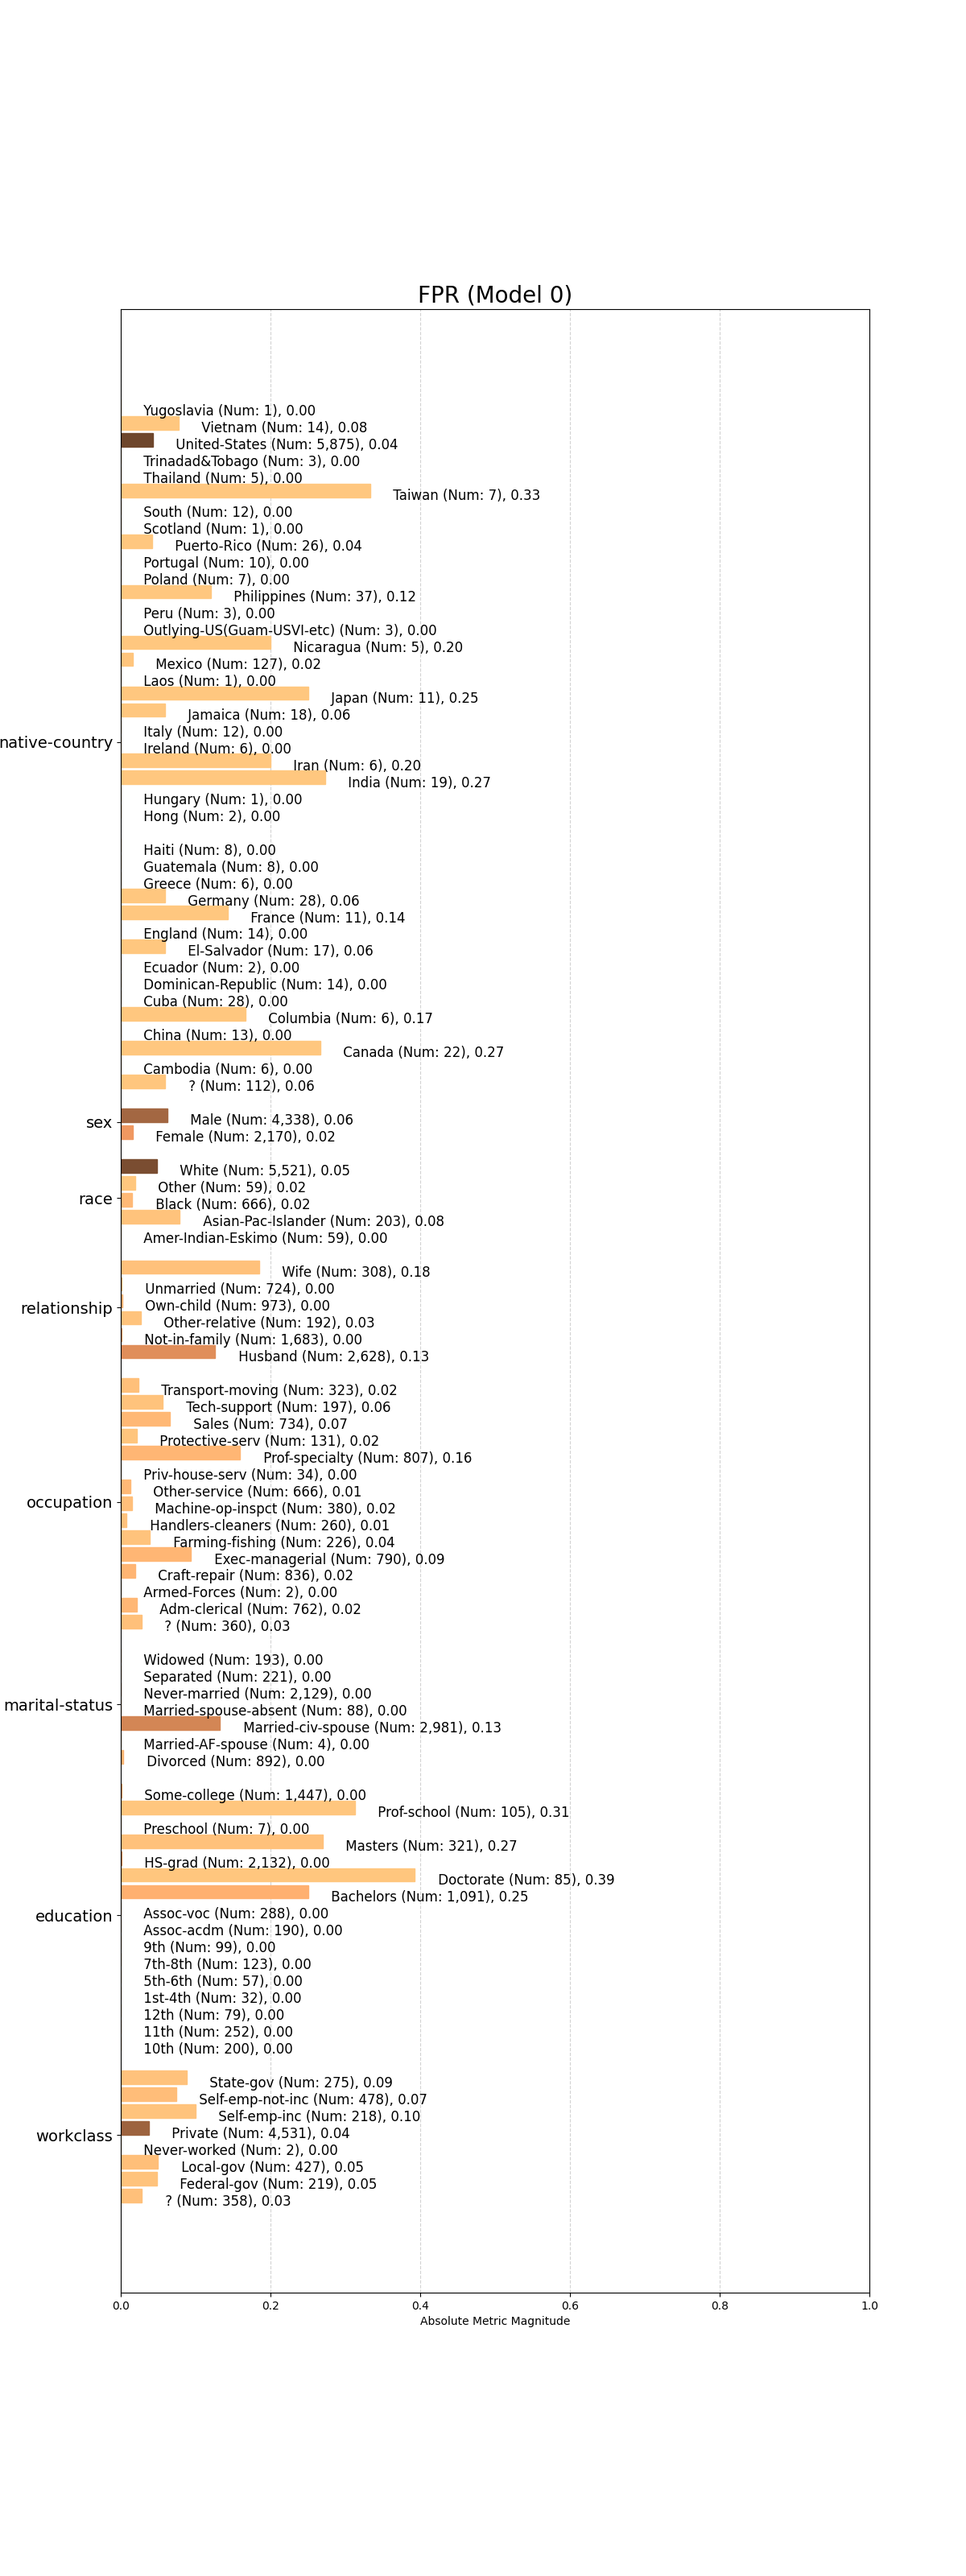
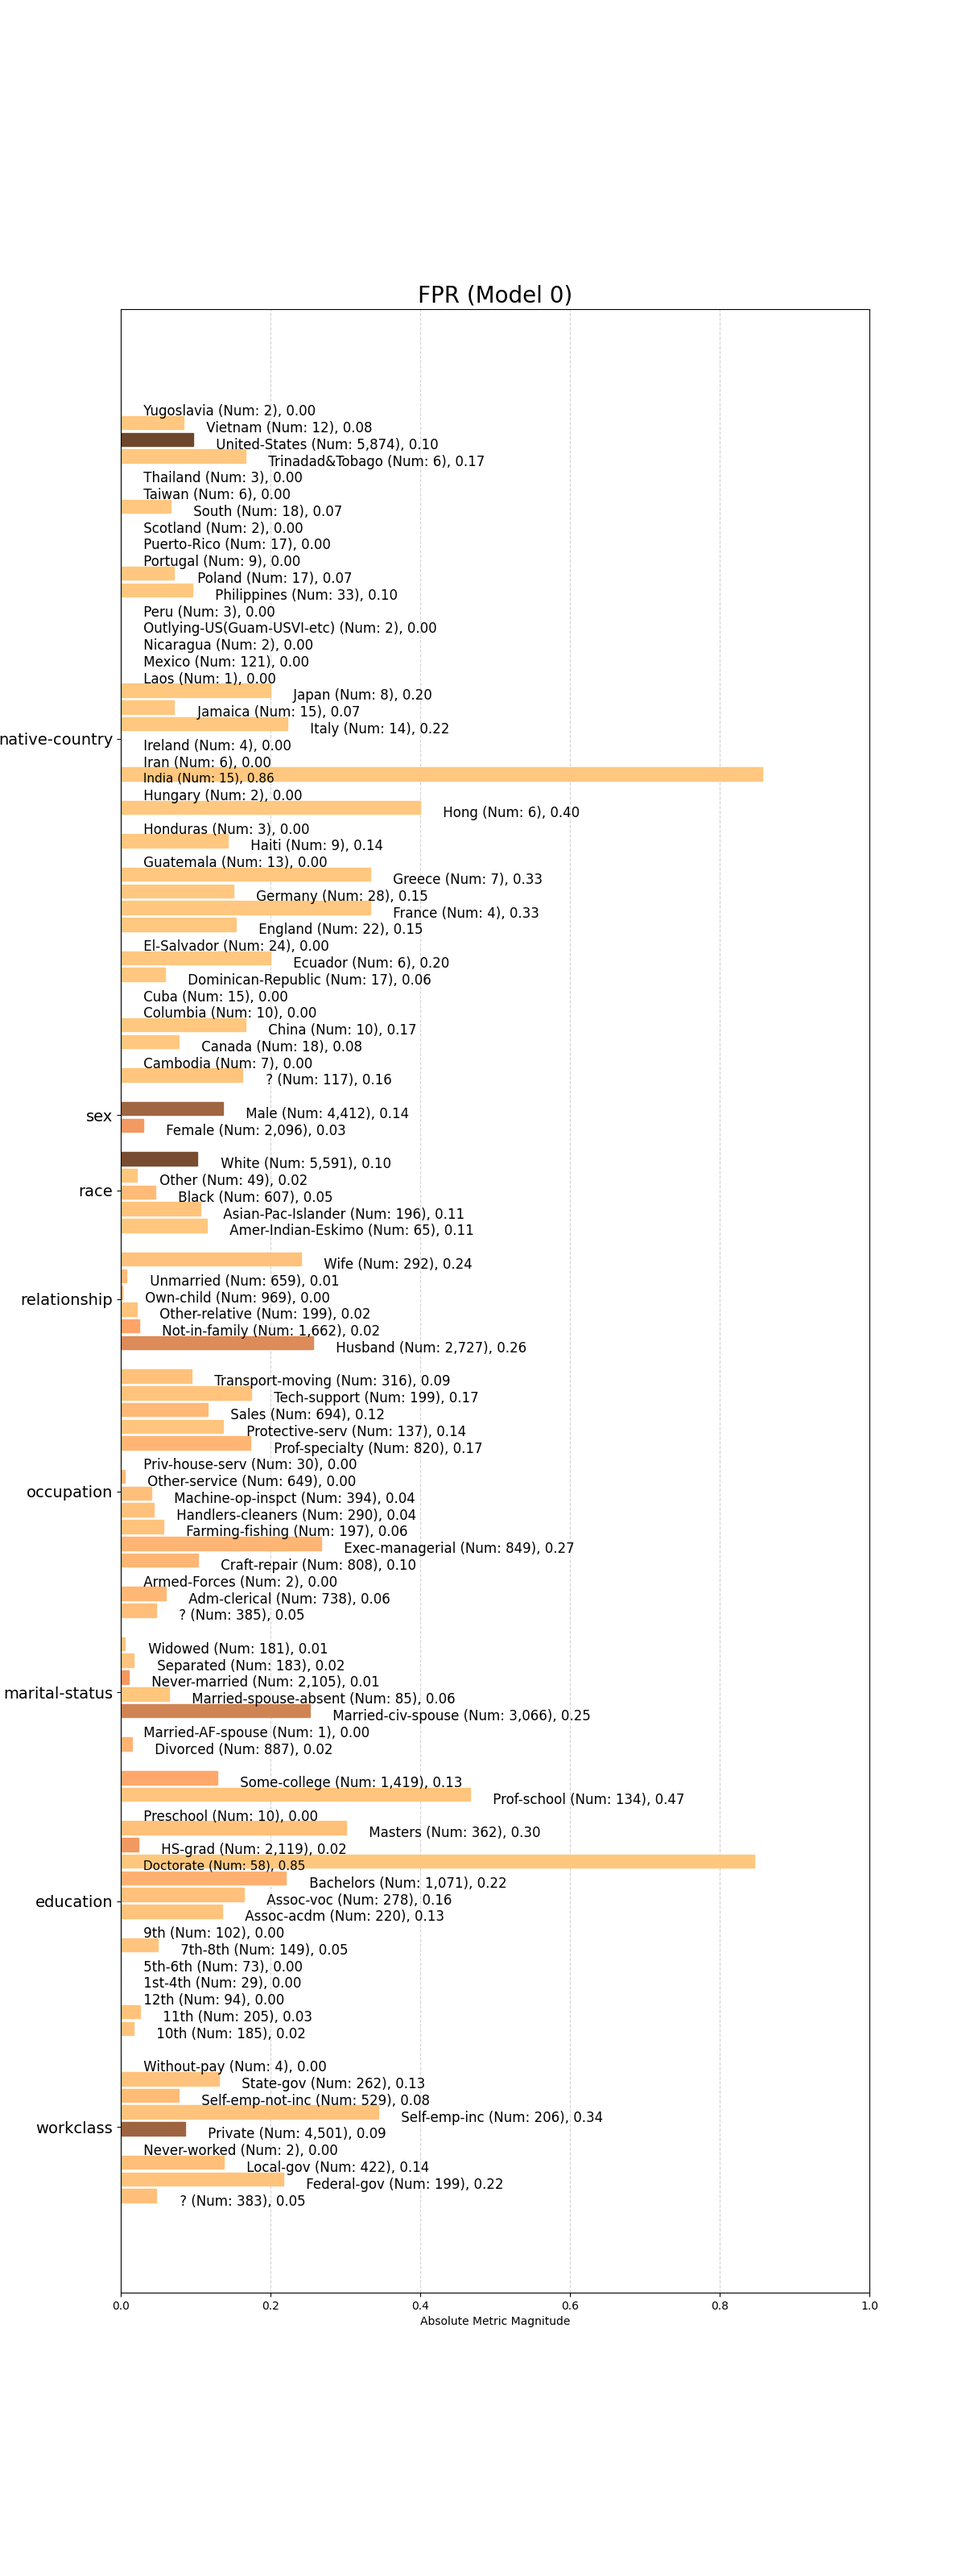
add eval on data slice and updat model

diff --git a/src/training/run.py b/src/training/run.py
@@ -1,13 +1,14 @@
 import argparse
 import logging
 import os
+import json
 import pickle
 from pathlib import Path
 
 import pandas as pd
 from ml.data import cat_features, process_data
 from ml.model import (compute_model_metrics, plot_model_disparity_on_fpr,
-                      train_model)
+                      train_model, compute_metrics_on_slice)
 from sklearn.model_selection import train_test_split
 
 logging.basicConfig(level=logging.INFO, format="%(asctime)-15s %(message)s")
@@ -34,7 +35,8 @@ def training(input_path: str, output_path: str):
     # generate k-fold
 
     # train, test split
-    train_data, test_data = train_test_split(data, test_size=0.2)
+    train_data, test_data = train_test_split(data, test_size=0.2,
+                                             random_state=42)
 
     X_train, y_train, encoder, lb = process_data(train_data, categorical_features=cat_features,  # NOQA:E501
                                                  label="salary", training=True)
@@ -49,7 +51,13 @@ def training(input_path: str, output_path: str):
                                         encoder=encoder, lb=lb)
     y_pred = model.predict(X_test)
     scores = compute_model_metrics(y_test, y_pred)
+    # evaluation on data slice
+    perf_on_slice = compute_metrics_on_slice(data=test_data,
+                                             y_pred=y_pred, y_true=y_test,
+                                             feature_name='education')
 
+    with open(os.path.join(output_path, 'data_slice_eval.json'), 'w+') as f:
+        json.dump(perf_on_slice, f)
     #
     test_data = test_data.rename(columns={'salary': 'label_value'})
     test_data['label_value'] = y_test

diff --git a/src/training/ml/model.py b/src/training/ml/model.py
@@ -24,7 +24,7 @@ def train_model(X_train, y_train):
         Trained machine learning model.
     """
 
-    clf = DecisionTreeClassifier()
+    clf = DecisionTreeClassifier(random_state=42)
     cv = KFold(5, shuffle=True, random_state=42)
     trainer = GridSearchCV(clf,
                            {"max_depth": np.linspace(5, 30, 6).astype(int)},
@@ -56,6 +56,34 @@ def compute_model_metrics(y, preds):
     return {"precision": precision,
             "recall": recall,
             "fbeta": fbeta}
+
+
+def compute_metrics_on_slice(data, y_pred, y_true, feature_name):
+    """evaluation model performance on specific features, return
+    a dict of performance dict, that key is attribute value in the
+    features.
+
+    Args:
+        data: A pandas DataFrame to be analysised by model
+        y_pred: 1d array-like, or label indicator array / sparse matrix
+        Ground truth (correct) target values.
+        y_true: 1d array-like, or label indicator array / sparse matrix
+        Ground truth (correct) target values.
+        model: A trained model
+        feature_name: the feature name of data
+    """
+    _tmp_data = data
+    _tmp_data['label'] = y_true
+    _tmp_data['pred'] = y_pred
+
+    ans = {}
+    for attr in data[feature_name].unique():
+        _slice = data[data[feature_name] == attr]
+        perf = compute_model_metrics(y=_slice['label'],
+                                     preds=_slice['pred'])
+        ans[attr] = perf
+
+    return ans
 
 
 def plot_model_disparity_on_fpr(data: pd.DataFrame, output_path: str):

diff --git a/model/model_card.md b/model/model_card.md
@@ -19,14 +19,16 @@ when training, we split dataset into train, test first with test_size=0.2, and
 then do KFold CrossValidation on model, KFold=5
 
 ## Metrics
-precision: 0.748
-recall: 0.557
-fbeta: 0.638
+Label Encoder: [' <=50K' ' >50K']
+precision: 0.693
+recall: 0.663
+fbeta: 0.678
 
 ## Ethical Considerations
 
-The Graph below shows the FPR bias on features, pay attention to the attribute with high FPR. By using this model, you may face inaccurate
-result when predict high educated person, like bacheloars-school/doctor degree etc.
+The Graph below shows the FPR bias on features, pay attention to the attribute with high FPR. 
+When using this model, the predict result on people whose native is india is not as
+accurate as other country, which shows the models bias on nativa-country.
 
 ![bias-graph](/model/fpr_fiarness_graph.png)
 
